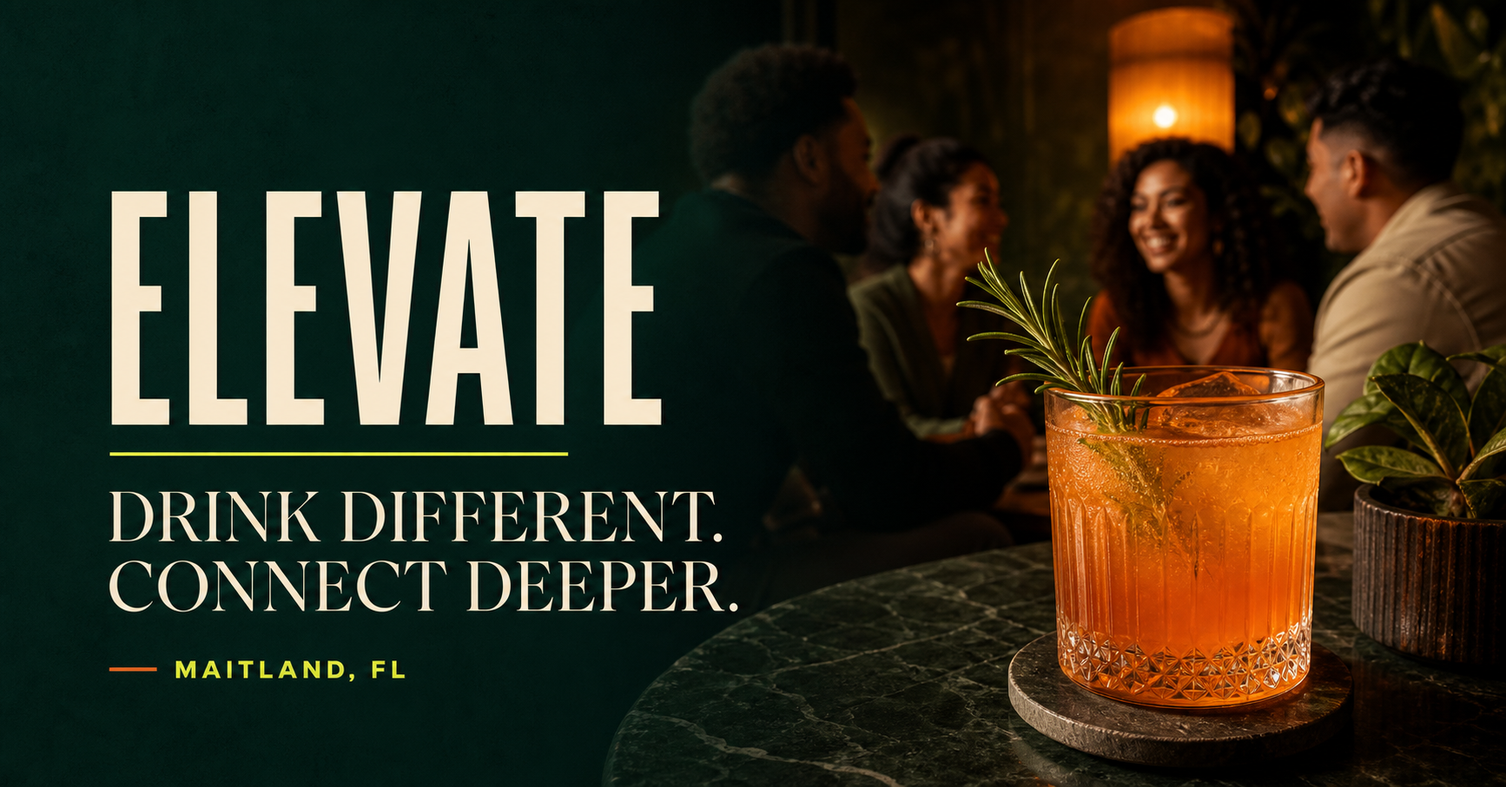
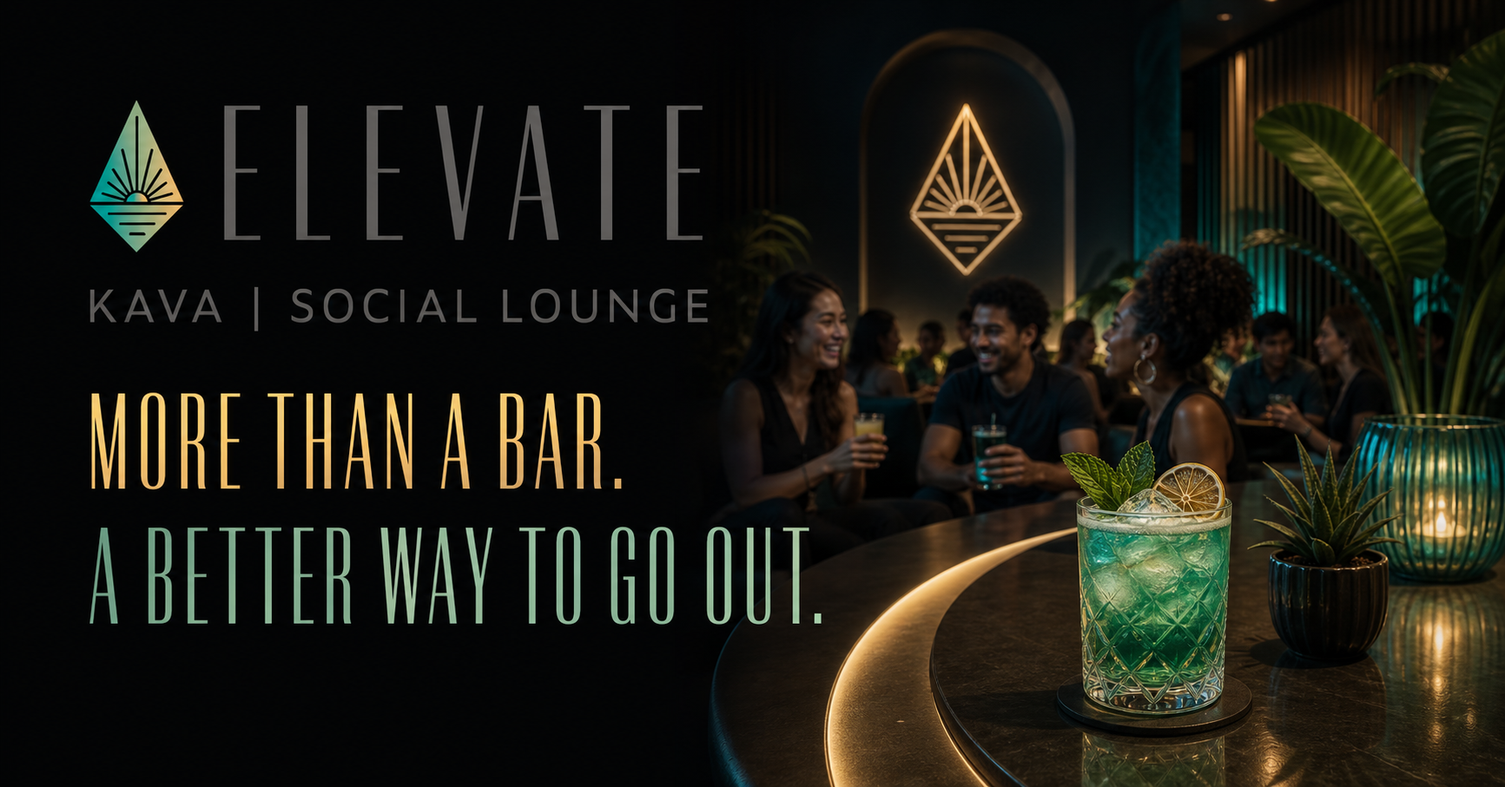
Expand Elevate into a next-generation social bar

diff --git a/app/globals.css b/app/globals.css
@@ -1,107 +1,7 @@
-@import url('https://fonts.googleapis.com/css2?family=DM+Sans:wght@400;500;600&family=DM+Serif+Display:ital@0;1&family=Oswald:wght@500;600&display=swap');
+@import url('https://fonts.googleapis.com/css2?family=DM+Sans:wght@400;500;600&family=Italiana&family=Oswald:wght@400;500&display=swap');
 
-:root { --green:#12372d; --deep:#08261f; --ink:#102a23; --cream:#f3ebdd; --paper:#fbf7ef; --lime:#dff34a; --orange:#ef6b35; --line:rgba(16,42,35,.18); }
-* { box-sizing:border-box; }
-html { scroll-behavior:smooth; }
-body { margin:0; background:var(--paper); color:var(--ink); font-family:'DM Sans',Arial,sans-serif; }
-a { color:inherit; text-decoration:none; }
-img { width:100%; height:100%; object-fit:cover; display:block; }
-.site-header { height:82px; display:grid; grid-template-columns:1fr auto 1fr; align-items:center; padding:0 3vw; background:var(--deep); color:var(--cream); border-bottom:1px solid rgba(243,235,221,.15); position:relative; z-index:5; }
-.wordmark,.footer-mark { font:600 26px/1 'Oswald',sans-serif; letter-spacing:.03em; }
-.wordmark span,.footer-mark span { color:var(--lime); }
-nav { display:flex; gap:34px; font-size:13px; text-transform:uppercase; letter-spacing:.12em; }
-nav a,.footer-links a { transition:color .2s; }
-nav a:hover,.footer-links a:hover { color:var(--lime); }
-.order-link { justify-self:end; font-size:13px; text-transform:uppercase; letter-spacing:.1em; padding-bottom:7px; border-bottom:1px solid var(--lime); }
-.order-link span,.button span,.footer-links span { margin-left:10px; }
-.hero { min-height:calc(100vh - 82px); display:grid; grid-template-columns:55% 45%; grid-template-rows:1fr auto; background:var(--green); color:var(--cream); overflow:hidden; }
-.hero-copy { padding:9vh 5vw 8vh 7vw; display:flex; flex-direction:column; justify-content:center; position:relative; }
-.hero-copy:after { content:''; position:absolute; width:170px; height:170px; border:1px solid rgba(223,243,74,.35); border-radius:50%; right:-55px; top:9%; }
-.eyebrow,.section-number { font-size:11px; text-transform:uppercase; letter-spacing:.2em; font-weight:600; }
-.eyebrow { display:flex; align-items:center; gap:12px; color:var(--lime); }
-.eyebrow span { width:34px; height:1px; background:var(--lime); }
-h1,h2,blockquote { font-family:'DM Serif Display',Georgia,serif; font-weight:400; letter-spacing:-.04em; margin:0; }
-h1 { font-size:clamp(62px,7.3vw,124px); line-height:.83; margin:34px 0; }
-h1 em,h2 em { color:var(--lime); font-weight:400; }
-.hero-intro { max-width:550px; font-size:17px; line-height:1.6; color:rgba(243,235,221,.77); }
-.hero-actions { display:flex; gap:30px; align-items:center; margin-top:38px; }
-.button { display:inline-flex; align-items:center; justify-content:center; padding:17px 22px; text-transform:uppercase; letter-spacing:.13em; font-size:11px; font-weight:600; border:1px solid; transition:transform .2s,background .2s; }
-.button:hover { transform:translateY(-2px); }
-.button-light { background:var(--lime); border-color:var(--lime); color:var(--deep); }
-.button-dark { background:var(--deep); border-color:var(--deep); color:var(--cream); }
-.text-link { font-size:12px; border-bottom:1px solid rgba(243,235,221,.35); padding-bottom:6px; }
-.hero-image { background:linear-gradient(180deg,rgba(8,38,31,.08),rgba(8,38,31,.5)),url('/images/hero.jpg') center/cover; position:relative; min-height:620px; }
-.hero-image>p { position:absolute; bottom:35px; right:35px; text-align:right; text-transform:uppercase; letter-spacing:.14em; font-size:10px; line-height:1.6; }
-.image-stamp { width:120px; height:120px; border-radius:50%; position:absolute; top:35px; left:-60px; background:var(--orange); color:var(--deep); display:flex; flex-direction:column; justify-content:center; align-items:center; transform:rotate(-8deg); }
-.image-stamp strong { font:600 34px/1 'Oswald'; }
-.image-stamp span { font-size:9px; text-align:center; text-transform:uppercase; letter-spacing:.1em; margin-top:5px; }
-.hero-marquee { grid-column:1/-1; background:var(--lime); color:var(--deep); display:flex; align-items:center; justify-content:space-around; gap:26px; padding:16px 2vw; white-space:nowrap; font:600 17px 'Oswald'; letter-spacing:.1em; }
-.hero-marquee i { color:var(--orange); font-style:normal; }
-.manifesto { padding:130px 7vw; display:grid; grid-template-columns:22% 1fr; border-bottom:1px solid var(--line); }
-.section-number { margin:10px 0 28px; color:#527168; }
-.manifesto h2,.section-heading h2,.visit h2 { font-size:clamp(52px,7vw,108px); line-height:.92; }
-.manifesto h2 em,.section-heading h2 em,.visit h2 em { color:var(--orange); }
-.manifesto-copy { display:grid; grid-template-columns:1fr 1fr; gap:6vw; max-width:820px; margin:64px 0 0 auto; font-size:16px; line-height:1.75; color:#47615a; }
-.drinks { padding:120px 7vw 140px; }
-.section-heading { display:flex; align-items:end; justify-content:space-between; margin-bottom:58px; }
-.drink-grid { display:grid; grid-template-columns:repeat(3,1fr); gap:20px; }
-.drink-card { border:1px solid var(--line); background:var(--cream); transition:transform .25s; }
-.drink-card:hover { transform:translateY(-7px); }
-.drink-photo { height:440px; position:relative; overflow:hidden; background:#ddd; }
-.drink-photo img { transition:transform .5s; }
-.drink-card:hover img { transform:scale(1.025); }
-.drink-photo span { position:absolute; top:18px; left:18px; width:39px; height:39px; border-radius:50%; display:grid; place-items:center; background:var(--lime); font-size:11px; font-weight:600; }
-.drink-info { padding:25px 24px 28px; display:grid; grid-template-columns:1fr auto; align-items:end; }
-.drink-info h3 { grid-column:1/-1; font:400 30px 'DM Serif Display'; margin:0 0 6px; }
-.drink-info p { margin:0; font-size:12px; color:#5c716b; }
-.drink-info strong { font-size:12px; }
-.drink-card.mint .drink-photo img { filter:hue-rotate(28deg) saturate(.8); }
-.drink-card.berry .drink-photo img { filter:hue-rotate(315deg) saturate(1.15); }
-.split-story { display:grid; grid-template-columns:1fr 1fr; min-height:760px; background:var(--deep); color:var(--cream); }
-.story-image { min-height:640px; overflow:hidden; }
-.story-image img { filter:saturate(.75) contrast(1.05); }
-.story-copy { padding:9vw 7vw; display:flex; flex-direction:column; justify-content:center; }
-.story-copy .section-number { color:var(--lime); }
-blockquote { font-size:clamp(44px,5vw,78px); line-height:1.03; margin:35px 0 55px; color:var(--cream); }
-.story-points>div { display:grid; grid-template-columns:45px 130px 1fr; padding:18px 0; border-top:1px solid rgba(243,235,221,.18); align-items:start; }
-.story-points span { color:var(--lime); font-size:10px; }
-.story-points h3 { margin:0; font-size:13px; text-transform:uppercase; letter-spacing:.08em; }
-.story-points p { margin:0; font-size:12px; line-height:1.55; color:rgba(243,235,221,.65); }
-.visit { padding:120px 7vw 0; background:var(--cream); }
-.visit-top { display:flex; justify-content:space-between; border-bottom:1px solid var(--line); }
-.status { font-size:10px; letter-spacing:.13em; font-weight:600; }
-.status i { width:7px; height:7px; border-radius:50%; background:#6db547; display:inline-block; margin-right:8px; }
-.visit-main { display:grid; grid-template-columns:1fr 1fr; padding:70px 0; align-items:end; }
-.visit-details { display:grid; grid-template-columns:1fr 1fr; gap:5vw; }
-.visit-details span { text-transform:uppercase; letter-spacing:.14em; font-size:10px; color:#5c716b; }
-.visit-details p { line-height:1.65; font-size:14px; min-height:98px; }
-.visit-details a { font-size:11px; text-transform:uppercase; letter-spacing:.12em; border-bottom:1px solid; padding-bottom:5px; }
-.visit-image { height:440px; overflow:hidden; }
-footer { background:var(--orange); padding:90px 7vw 30px; display:grid; grid-template-columns:1fr 1fr; align-items:start; }
-.footer-mark { font-size:clamp(78px,13vw,210px); line-height:.8; letter-spacing:-.02em; }
-footer>p { justify-self:end; font:400 30px 'DM Serif Display'; max-width:260px; margin:0; }
-.footer-links { grid-column:1/-1; display:flex; justify-content:flex-end; gap:32px; margin:80px 0 55px; font-size:11px; text-transform:uppercase; letter-spacing:.12em; }
-.footer-bottom { grid-column:1/-1; border-top:1px solid rgba(8,38,31,.3); padding-top:18px; display:flex; justify-content:space-between; font-size:10px; text-transform:uppercase; letter-spacing:.12em; }
-@media (max-width:900px) {
-  .site-header { grid-template-columns:1fr auto; } nav { display:none; }
-  .hero { grid-template-columns:1fr; } .hero-copy { padding:80px 7vw; } .hero-image { min-height:520px; } .image-stamp { left:auto; right:25px; }
-  .manifesto { grid-template-columns:1fr; } .manifesto-copy { margin-left:0; }
-  .drink-grid { grid-template-columns:1fr; } .drink-photo { height:520px; }
-  .split-story,.visit-main { grid-template-columns:1fr; } .story-copy { padding:90px 7vw; }
-  .visit-details { margin-top:60px; }
-  footer { grid-template-columns:1fr; } footer>p { justify-self:start; margin-top:40px; } .footer-links,.footer-bottom { grid-column:1; }
-}
-@media (max-width:600px) {
-  .site-header { height:68px; padding:0 20px; } .wordmark { font-size:21px; } .order-link { font-size:10px; }
-  h1 { font-size:54px; } .hero-copy { padding:58px 24px; } .hero-actions { align-items:flex-start; flex-direction:column; }
-  .hero-image { min-height:430px; } .hero-marquee { justify-content:flex-start; overflow:hidden; font-size:14px; }
-  .manifesto,.drinks,.visit { padding:85px 24px; } .manifesto h2,.section-heading h2,.visit h2 { font-size:50px; }
-  .manifesto-copy { grid-template-columns:1fr; gap:10px; margin-top:40px; }
-  .section-heading { display:block; } .section-heading .button { margin-top:30px; }
-  .drink-photo { height:390px; } .story-image { min-height:480px; }
-  .story-copy { padding:80px 24px; } .story-points>div { grid-template-columns:35px 1fr; gap:8px; } .story-points p { grid-column:2; }
-  .visit-top { display:block; padding-bottom:18px; } .visit-main { padding:50px 0; } .visit-details { grid-template-columns:1fr; gap:42px; }
-  .visit-details p { min-height:auto; } .visit-image { height:360px; }
-  footer { padding:70px 24px 28px; } .footer-mark { font-size:78px; } .footer-links { justify-content:flex-start; flex-wrap:wrap; margin:60px 0 45px; }
-}
-@media (prefers-reduced-motion:reduce) { html { scroll-behavior:auto; } * { transition:none!important; } }
+:root{--black:#070909;--graphite:#141716;--ink:#202422;--paper:#f2f0e9;--white:#fbfaf5;--teal:#03afa4;--mint:#9bc8aa;--gold:#efc36a;--line:rgba(7,9,9,.16);--grad:linear-gradient(110deg,#03afa4 0%,#98c5a6 50%,#efc36a 100%)}
+*{box-sizing:border-box}html{scroll-behavior:smooth}body{margin:0;background:var(--paper);color:var(--ink);font-family:'DM Sans',sans-serif}a{color:inherit;text-decoration:none}img{display:block;width:100%;height:100%;object-fit:cover}button{font:inherit}.site-header{height:94px;padding:0 4vw;display:grid;grid-template-columns:1fr auto 1fr;align-items:center;background:var(--black);color:white;position:relative;z-index:9;border-bottom:1px solid #2d302f}.brand{width:190px;height:64px;display:block}.brand img{object-fit:contain;object-position:left center}.site-header nav{display:flex;gap:40px;font-size:11px;letter-spacing:.16em;text-transform:uppercase}.site-header nav a{transition:color .2s}.site-header nav a:hover{color:var(--teal)}.order-link{justify-self:end;font-size:11px;text-transform:uppercase;letter-spacing:.14em;border-bottom:1px solid var(--gold);padding-bottom:7px}.order-link span,.button span,.ritual a span,.footer-links span{margin-left:10px}.hero{background:var(--black);color:var(--white);min-height:calc(100vh - 94px);display:grid;grid-template-columns:51% 49%;grid-template-rows:1fr auto;overflow:hidden}.hero-copy{padding:10vh 5vw 10vh 7vw;display:flex;justify-content:center;flex-direction:column;position:relative}.hero-copy:before{content:'';width:24vw;height:24vw;border-radius:50%;position:absolute;left:-16vw;top:12%;border:1px solid rgba(3,175,164,.28)}.eyebrow,.section-label{font-size:10px;text-transform:uppercase;letter-spacing:.22em;font-weight:600}.eyebrow{display:flex;align-items:center;gap:12px;color:var(--mint)}.eyebrow span{display:block;width:32px;height:1px;background:var(--grad)}h1,h2,blockquote{font-family:'Italiana',serif;font-weight:400;letter-spacing:-.045em;margin:0}h1{font-size:clamp(82px,9vw,150px);line-height:.78;margin:42px 0}h1 em,h2 em,blockquote em{font-style:italic;color:var(--gold)}.hero-intro{max-width:590px;color:#a8aeaa;font-size:17px;line-height:1.75}.hero-actions{display:flex;align-items:center;gap:30px;margin-top:38px}.button{display:inline-flex;align-items:center;justify-content:center;padding:17px 22px;font-size:10px;font-weight:600;text-transform:uppercase;letter-spacing:.15em;border:1px solid;transition:transform .2s}.button:hover{transform:translateY(-2px)}.gradient-button{background:var(--grad);color:var(--black);border:0}.dark-button{background:var(--black);color:white;border-color:var(--black)}.text-link{font-size:11px;border-bottom:1px solid #4f5351;padding-bottom:6px}.hero-visual{position:relative;min-height:670px;border-left:1px solid #292c2b;background:#101312}.hero-photo{position:absolute;inset:4.5vw 0 4.5vw 5vw;background:linear-gradient(180deg,transparent 42%,rgba(7,9,9,.7)),url('/images/hero.jpg') center/cover}.hero-photo:before{content:'';position:absolute;inset:0;background:linear-gradient(120deg,rgba(3,175,164,.08),transparent 35%,rgba(239,195,106,.12));mix-blend-mode:color}.hero-orbit{position:absolute;right:2vw;top:32px;display:flex;gap:8px;font-size:8px;letter-spacing:.16em;writing-mode:vertical-rl}.hero-orbit i{font-style:normal;color:var(--gold)}.now-card{position:absolute;left:0;bottom:8vw;width:190px;min-height:190px;padding:22px;background:rgba(7,9,9,.94);border-left:3px solid var(--teal);display:flex;flex-direction:column}.now-card span,.now-card small{font-size:8px;letter-spacing:.17em;color:#919895}.now-card strong{font:400 29px/1.05 'Italiana';margin:auto 0}.ticker{grid-column:1/-1;background:var(--grad);color:var(--black);height:54px;display:flex;align-items:center;justify-content:space-around;gap:24px;white-space:nowrap;font:500 15px 'Oswald';letter-spacing:.11em}.ticker i{font-style:normal}.positioning{padding:145px 7vw;display:grid;grid-template-columns:35% 65%;border-bottom:1px solid var(--line)}.position-mark{width:260px;height:260px;border-radius:50%;background:var(--black);padding:50px;display:flex;align-items:center}.position-mark img{object-fit:contain;transform:scale(1.5)}.position-copy h2,.menu-heading h2,.editorial-copy h2,.visit h2{font-size:clamp(58px,7.4vw,120px);line-height:.88}.position-copy h2 em,.menu-heading h2 em,.editorial-copy h2 em,.visit h2 em{color:var(--teal)}.position-copy>p:last-child{max-width:680px;margin:55px 0 0 auto;color:#606763;font-size:17px;line-height:1.8}.section-label{color:#6d7470;margin:0 0 32px}.rituals{padding:115px 7vw 135px;background:var(--white)}.ritual-head{display:flex;justify-content:space-between;align-items:start;margin-bottom:55px}.ritual-head>p:last-child{font:400 28px/1.25 'Italiana';margin:0}.ritual-grid{display:grid;grid-template-columns:repeat(3,1fr);gap:18px}.ritual{min-height:500px;padding:28px;display:flex;flex-direction:column;position:relative;overflow:hidden;transition:transform .25s}.ritual:hover{transform:translateY(-6px)}.ritual:after{content:'';position:absolute;width:290px;height:290px;border:1px solid currentColor;border-radius:50%;right:-130px;bottom:-130px;opacity:.24}.ritual.teal{background:#08a99e;color:#031816}.ritual.gold{background:var(--gold);color:#221b0d}.ritual.mint{background:#9ecaae;color:#0c2016}.ritual>span{font-size:10px;border-bottom:1px solid currentColor;padding-bottom:17px}.ritual>p{font-size:9px;letter-spacing:.16em;text-transform:uppercase;margin:25px 0 0}.ritual h3{font:400 clamp(66px,6vw,100px)/1 'Italiana';margin:auto 0 25px}.ritual-rule{width:100%;height:1px;background:currentColor;opacity:.35}.ritual small{font-size:12px;line-height:1.6;max-width:260px;margin:20px 0}.ritual a{font-size:9px;text-transform:uppercase;letter-spacing:.16em;margin-top:10px;font-weight:600}.feature-band{display:grid;grid-template-columns:47% 53%;min-height:770px;background:var(--black);color:var(--white)}.feature-photo{min-height:650px;position:relative}.feature-photo:after{content:'';position:absolute;inset:0;background:linear-gradient(90deg,transparent 50%,rgba(7,9,9,.35))}.feature-photo img{filter:saturate(.7) contrast(1.08)}.feature-copy{padding:9vw 7vw;display:flex;flex-direction:column;justify-content:center}.feature-copy .section-label{color:var(--teal)}blockquote{font-size:clamp(52px,5.7vw,94px);line-height:.98;margin:25px 0 70px}.feature-stats{display:grid;grid-template-columns:repeat(3,1fr);border-top:1px solid #383b39;padding-top:24px;gap:24px}.feature-stats strong{font:400 32px 'Italiana';display:block;color:var(--gold)}.feature-stats span{font-size:9px;line-height:1.4;color:#949a96;text-transform:uppercase;letter-spacing:.1em}.menu-section{padding:135px 7vw;background:var(--paper)}.menu-heading{display:grid;grid-template-columns:1fr 36%;align-items:end;gap:6vw;margin-bottom:70px}.menu-heading>div:last-child>p{font-size:15px;line-height:1.7;color:#626965}.menu-heading .button{margin-top:24px}.menu-explorer{border-top:1px solid var(--black);display:grid;grid-template-columns:26% 1fr}.menu-tabs{border-right:1px solid var(--line)}.menu-tabs button{width:100%;text-align:left;border:0;border-bottom:1px solid var(--line);background:transparent;padding:25px 22px;font:400 25px 'Italiana';cursor:pointer;color:#7f8582;transition:.2s}.menu-tabs button span{font:500 9px 'DM Sans';margin-right:18px}.menu-tabs button[aria-selected="true"]{background:var(--black);color:var(--white);padding-left:30px}.menu-panel{padding:0 0 0 5vw}.menu-panel-head{height:76px;display:flex;align-items:center;justify-content:space-between;border-bottom:1px solid var(--line);font-size:9px;text-transform:uppercase;letter-spacing:.15em;color:#6b726e}.menu-list{display:grid;grid-template-columns:1fr 1fr;column-gap:4vw}.menu-list article{min-height:125px;padding:24px 0;border-bottom:1px solid var(--line);display:grid;grid-template-columns:1fr auto;gap:20px}.menu-list h3{font:400 26px 'Italiana';margin:0 0 7px}.menu-list p{font-size:11px;line-height:1.5;color:#737a76;margin:0}.menu-list strong{font-size:11px}.menu-note{margin-top:75px;border:1px solid var(--line);padding:25px 30px;display:grid;grid-template-columns:20% 1fr;align-items:center}.menu-note span{font-size:9px;letter-spacing:.16em}.menu-note p{font:400 20px/1.5 'Italiana';margin:0}.editorial-grid{display:grid;grid-template-columns:44% 28% 28%;grid-template-rows:400px 340px;background:var(--black);color:white}.editorial-copy{grid-row:1/3;padding:8vw 6vw;display:flex;flex-direction:column;justify-content:center}.editorial-copy h2{font-size:clamp(62px,6.3vw,100px)}.editorial-copy>p:last-child{color:#929894;line-height:1.75;max-width:470px;margin-top:48px}.editorial-image.tall{grid-row:1/3}.editorial-image.wide{grid-column:3;grid-row:1/3;position:relative}.editorial-image img{filter:saturate(.65) contrast(1.1)}.editorial-image.wide span{position:absolute;bottom:24px;left:24px;font-size:8px;line-height:1.7;letter-spacing:.15em}.visit{padding:125px 7vw 115px;background:var(--mint)}.visit-head{display:flex;justify-content:space-between;border-bottom:1px solid rgba(7,9,9,.28);padding-bottom:10px}.status{font-size:9px;letter-spacing:.14em;font-weight:600}.status i{display:inline-block;width:7px;height:7px;border-radius:50%;background:#0b7b50;margin-right:7px}.visit-main{display:grid;grid-template-columns:55% 45%;padding-top:70px;align-items:end}.visit-main .button{margin-top:40px}.visit-details{display:grid;grid-template-columns:1fr 1fr;gap:45px}.visit-details>div:last-child{grid-column:1/-1;border-top:1px solid rgba(7,9,9,.22);padding-top:25px}.visit-details span{font-size:8px;letter-spacing:.16em}.visit-details p{font-size:13px;line-height:1.7}.visit-details a{border-bottom:1px solid rgba(7,9,9,.35)}footer{background:var(--black);color:white;padding:100px 7vw 30px;display:grid;grid-template-columns:1fr 1fr}.footer-logo{width:min(620px,100%);height:auto;object-fit:contain;object-position:left center}footer>p{justify-self:end;font:400 32px 'Italiana';margin:0;color:var(--gold)}.footer-links{grid-column:1/-1;display:flex;justify-content:flex-end;gap:34px;margin:100px 0 55px;font-size:9px;text-transform:uppercase;letter-spacing:.15em}.footer-bottom{grid-column:1/-1;display:flex;justify-content:space-between;border-top:1px solid #303332;padding-top:18px;font-size:8px;letter-spacing:.15em;color:#8e9490}
+@media(max-width:950px){.site-header{grid-template-columns:1fr auto}.site-header nav{display:none}.hero{grid-template-columns:1fr}.hero-copy{padding:100px 7vw}.hero-visual{min-height:650px}.positioning{grid-template-columns:1fr;gap:70px}.position-mark{width:220px;height:220px}.ritual-grid{grid-template-columns:1fr}.ritual{min-height:420px}.feature-band{grid-template-columns:1fr}.feature-copy{padding:100px 7vw}.menu-heading{grid-template-columns:1fr}.menu-explorer{grid-template-columns:1fr}.menu-tabs{display:grid;grid-template-columns:1fr 1fr;border-right:0}.menu-panel{padding-left:0}.editorial-grid{grid-template-columns:1fr 1fr;grid-template-rows:auto 580px}.editorial-copy{grid-column:1/-1;grid-row:auto;padding:100px 7vw}.editorial-image.tall,.editorial-image.wide{grid-row:2;grid-column:auto}.visit-main{grid-template-columns:1fr;gap:70px}footer{grid-template-columns:1fr}footer>p{justify-self:start;margin-top:35px}.footer-links,.footer-bottom{grid-column:1}}
+@media(max-width:600px){.site-header{height:74px;padding:0 20px}.brand{width:135px;height:52px}.order-link{font-size:9px}.hero{min-height:auto}.hero-copy{padding:75px 24px}.hero-copy h1{font-size:74px}.hero-actions{align-items:flex-start;flex-direction:column}.hero-visual{min-height:510px}.hero-photo{inset:30px 0 45px 32px}.now-card{width:150px;min-height:150px;bottom:62px}.now-card strong{font-size:23px}.ticker{justify-content:flex-start;overflow:hidden}.positioning,.rituals,.menu-section,.visit{padding:90px 24px}.position-mark{width:160px;height:160px;padding:38px}.position-copy h2,.menu-heading h2,.editorial-copy h2,.visit h2{font-size:54px}.position-copy>p:last-child{margin-top:40px}.ritual-head{display:block}.ritual-head>p:last-child{font-size:23px;margin-top:25px}.ritual{min-height:390px}.feature-photo{min-height:500px}.feature-copy{padding:80px 24px}.feature-stats{grid-template-columns:1fr}.menu-tabs{grid-template-columns:1fr}.menu-tabs button{font-size:21px;padding:18px}.menu-list{grid-template-columns:1fr}.menu-panel-head{height:auto;padding:18px 0}.menu-note{grid-template-columns:1fr;gap:15px;padding:22px}.editorial-grid{display:block}.editorial-copy{padding:80px 24px}.editorial-image{height:480px}.editorial-image.wide{height:360px}.visit-details{grid-template-columns:1fr}.visit-details>div:last-child{grid-column:1}.footer-logo{width:100%}footer{padding:75px 24px 25px}footer>p{font-size:25px}.footer-links{justify-content:flex-start;flex-wrap:wrap;margin:65px 0 45px}.footer-bottom{display:block;line-height:2}}
+@media(prefers-reduced-motion:reduce){html{scroll-behavior:auto}*{transition:none!important}}

diff --git a/app/page.tsx b/app/page.tsx
@@ -1,123 +1,72 @@
-const drinks = [
-  { name: "Mango Sunrise", note: "mango · grenadine · mitra tea", price: "$8 / 10", image: "/images/hero.jpg", tone: "sun" },
-  { name: "Clear Skies", note: "cucumber · lime · mint", price: "$11", image: "/images/drink-one.jpg", tone: "mint" },
-  { name: "Berry Energetic", note: "mixed berry · oatmilk · green tea", price: "$12", image: "/images/drink-two.jpg", tone: "berry" },
+import { MenuExplorer } from "./MenuExplorer";
+
+const rituals = [
+  { n: "01", title: "Lift", tag: "energy + focus", copy: "Mitra teas, matcha, espresso, and blends built for the long day ahead.", color: "teal" },
+  { n: "02", title: "Connect", tag: "social + present", copy: "Layered botanical drinks that turn a quick hello into a whole evening.", color: "gold" },
+  { n: "03", title: "Unwind", tag: "calm + grounded", copy: "Traditional kava and slow sips for landing softly without checking out.", color: "mint" },
 ];
 
-function Arrow() {
-  return <span aria-hidden="true">↗</span>;
-}
+function Arrow() { return <span aria-hidden="true">↗</span>; }
 
 export default function Home() {
   return (
     <main>
       <header className="site-header">
-        <a className="wordmark" href="#top" aria-label="Elevate home">
-          ELEVATE<span>•</span>
-        </a>
-        <nav aria-label="Main navigation">
-          <a href="#drinks">Drinks</a>
-          <a href="#about">Our place</a>
-          <a href="#visit">Visit</a>
-        </nav>
-        <a className="order-link" href="https://www.toasttab.com/elevate-1-400-n-orlando-avenue" target="_blank" rel="noreferrer">
-          Order ahead <Arrow />
-        </a>
+        <a className="brand" href="#top" aria-label="Elevate home"><img src="/elevate-logo.png" alt="Elevate Kava Social Lounge" /></a>
+        <nav aria-label="Main navigation"><a href="#experience">Experience</a><a href="#menu">Menu</a><a href="#visit">Visit</a></nav>
+        <a className="order-link" href="https://www.toasttab.com/elevate-1-400-n-orlando-avenue" target="_blank" rel="noreferrer">Order ahead <Arrow /></a>
       </header>
 
       <section className="hero" id="top">
         <div className="hero-copy">
-          <p className="eyebrow"><span /> Your new favorite third place</p>
-          <h1>Drink different.<br /><em>Connect deeper.</em></h1>
-          <p className="hero-intro">Botanical drinks, unhurried energy, and room to be yourself. Welcome to Maitland’s modern kava social lounge.</p>
-          <div className="hero-actions">
-            <a className="button button-light" href="#drinks">Explore the menu <Arrow /></a>
-            <a className="text-link" href="#visit">Open daily, 9am–midnight <span aria-hidden="true">↓</span></a>
-          </div>
+          <p className="eyebrow"><span /> The next-generation social bar</p>
+          <h1>More than<br />a <em>bar.</em></h1>
+          <p className="hero-intro">A new way to go out—built around bold botanical drinks, better energy, and actual connection. From first focus to last call, choose your state.</p>
+          <div className="hero-actions"><a className="button gradient-button" href="#menu">Find your drink <Arrow /></a><a className="text-link" href="#experience">Meet the new social ritual <span>↓</span></a></div>
         </div>
-        <div className="hero-image" role="img" aria-label="A bright botanical drink at Elevate Social Lounge">
-          <div className="image-stamp"><strong>0%</strong><span>alcohol<br />100% social</span></div>
-          <p>Crafted in<br />Maitland, FL</p>
+        <div className="hero-visual">
+          <div className="hero-photo" />
+          <div className="hero-orbit"><span>FOCUS</span><i>+</i><span>ENERGY</span><i>+</i><span>CONNECTION</span></div>
+          <div className="now-card"><span>NOW POURING</span><strong>Elevated<br />botanicals</strong><small>9 AM — Midnight</small></div>
         </div>
-        <div className="hero-marquee" aria-hidden="true">
-          <span>KAVA</span><i>✦</i><span>MITRA TEA</span><i>✦</i><span>GOOD COMPANY</span><i>✦</i><span>ZERO PROOF</span>
+        <div className="ticker" aria-hidden="true"><span>KAVA</span><i>◇</i><span>MITRA</span><i>◇</i><span>ZERO-PROOF</span><i>◇</i><span>COFFEE</span><i>◇</i><span>FUNCTIONAL BLENDS</span><i>◇</i><span>GOOD COMPANY</span></div>
+      </section>
+
+      <section className="positioning" id="experience">
+        <div className="position-mark"><img src="/elevate-logo.png" alt="" /></div>
+        <div className="position-copy"><p className="section-label">BEYOND KAVA</p><h2>Your day has<br />different <em>modes.</em><br />So do we.</h2><p>Morning workspace. Afternoon reset. Zero-proof night out. Elevate is the all-day social club where the menu meets you exactly where you are—and moves with you.</p></div>
+      </section>
+
+      <section className="rituals">
+        <div className="ritual-head"><p className="section-label">CHOOSE YOUR STATE</p><p>No alcohol. No one-note experience.<br />Just the right ritual for right now.</p></div>
+        <div className="ritual-grid">
+          {rituals.map((ritual) => <article className={`ritual ${ritual.color}`} key={ritual.title}><span>{ritual.n}</span><p>{ritual.tag}</p><h3>{ritual.title}</h3><div className="ritual-rule" /><small>{ritual.copy}</small><a href="#menu">Find a pour <Arrow /></a></article>)}
         </div>
       </section>
 
-      <section className="manifesto" id="about">
-        <p className="section-number">01 — OUR PLACE</p>
-        <div>
-          <h2>Come as you are.<br /><em>Stay awhile.</em></h2>
-          <div className="manifesto-copy">
-            <p>We made Elevate for the in-between moments: the catch-up that turns into a whole evening, the laptop session that needs a better backdrop, the night out without the next-day fog.</p>
-            <p>Our lounge brings together functional botanicals, genuinely good drinks, and a community that makes everyone feel like a regular.</p>
-          </div>
-        </div>
+      <section className="feature-band">
+        <div className="feature-photo"><img src="/images/lounge.jpg" alt="An inviting moment at Elevate Social Lounge" /></div>
+        <div className="feature-copy"><p className="section-label">THE THIRD PLACE, UPGRADED</p><blockquote>Come for a drink.<br /><em>Leave more alive.</em></blockquote><div className="feature-stats"><div><strong>9—12</strong><span>Open morning to midnight</span></div><div><strong>0%</strong><span>Alcohol required</span></div><div><strong>∞</strong><span>Ways to make it yours</span></div></div></div>
       </section>
 
-      <section className="drinks" id="drinks">
-        <div className="section-heading">
-          <div>
-            <p className="section-number">02 — WHAT WE’RE POURING</p>
-            <h2>Bright, botanical,<br /><em>made to linger.</em></h2>
-          </div>
-          <a className="button button-dark" href="https://www.elevatesociallounge.com/menu-4" target="_blank" rel="noreferrer">View full menu <Arrow /></a>
-        </div>
-        <div className="drink-grid">
-          {drinks.map((drink, index) => (
-            <article className={`drink-card ${drink.tone}`} key={drink.name}>
-              <div className="drink-photo">
-                <img src={drink.image} alt={`${drink.name} botanical beverage`} />
-                <span>0{index + 1}</span>
-              </div>
-              <div className="drink-info">
-                <h3>{drink.name}</h3>
-                <p>{drink.note}</p>
-                <strong>{drink.price}</strong>
-              </div>
-            </article>
-          ))}
-        </div>
+      <section className="menu-section" id="menu">
+        <div className="menu-heading"><div><p className="section-label">THE FULL POUR</p><h2>Not a menu.<br /><em>A mood board.</em></h2></div><div><p>Choose a feeling, a flavor, or a familiar favorite. Our tenders will take it from there.</p><a className="button dark-button" href="https://www.toasttab.com/elevate-1-400-n-orlando-avenue" target="_blank" rel="noreferrer">Order for pickup <Arrow /></a></div></div>
+        <MenuExplorer />
+        <div className="menu-note"><span>MAKE IT YOURS</span><p>Raspberry · lavender · dragonfruit · passionfruit · mango · vanilla · toasted marshmallow · oatmilk · almondmilk · coconut</p></div>
       </section>
 
-      <section className="split-story">
-        <div className="story-image"><img src="/images/lounge.jpg" alt="Friends spending time together at Elevate" /></div>
-        <div className="story-copy">
-          <p className="section-number">03 — THE ELEVATE EFFECT</p>
-          <blockquote>“A night out that actually feels good tomorrow.”</blockquote>
-          <div className="story-points">
-            <div><span>01</span><h3>Focus mode</h3><p>Wi-Fi, outlets, daylight, and a drink with a little lift.</p></div>
-            <div><span>02</span><h3>Social mode</h3><p>Settle in for games, conversation, and zero-proof nights.</p></div>
-            <div><span>03</span><h3>Wind-down mode</h3><p>High-quality kava, soft light, and no rush to leave.</p></div>
-          </div>
-        </div>
+      <section className="editorial-grid">
+        <div className="editorial-copy"><p className="section-label">MADE FOR REAL LIFE</p><h2>Clock in.<br />Catch up.<br /><em>Stay late.</em></h2><p>Fast Wi-Fi and outlets when you’re building. Music and games when you’re reconnecting. Deep seats and thoughtful drinks when you just need somewhere better to be.</p></div>
+        <div className="editorial-image tall"><img src="/images/community.jpg" alt="Community at Elevate Social Lounge" /></div>
+        <div className="editorial-image wide"><img src="/images/hero.jpg" alt="A crafted botanical beverage" /><span>CRAFTED WITH INTENTION<br />POURED FOR CONNECTION</span></div>
       </section>
 
       <section className="visit" id="visit">
-        <div className="visit-top">
-          <p className="section-number">04 — PULL UP A CHAIR</p>
-          <span className="status"><i /> OPEN TODAY UNTIL MIDNIGHT</span>
-        </div>
-        <div className="visit-main">
-          <h2>Meet us<br /><em>in Maitland.</em></h2>
-          <div className="visit-details">
-            <div><span>Find us</span><p>400 N Orlando Ave<br />Unit 109A<br />Maitland, FL 32751</p><a href="https://maps.google.com/?q=400+N+Orlando+Ave+Unit+109A+Maitland+FL+32751" target="_blank" rel="noreferrer">Get directions <Arrow /></a></div>
-            <div><span>Hours</span><p>Monday — Sunday<br />9 AM — 12 AM</p><a href="tel:+14077067127">407 706 7127</a></div>
-          </div>
-        </div>
-        <div className="visit-image"><img src="/images/community.jpg" alt="The welcoming interior of Elevate Social Lounge" /></div>
+        <div className="visit-head"><p className="section-label">COME FIND YOUR MODE</p><span className="status"><i /> OPEN DAILY</span></div>
+        <div className="visit-main"><div><h2>Maitland’s<br /><em>social reset.</em></h2><a className="button gradient-button" href="https://maps.google.com/?q=400+N+Orlando+Ave+Unit+109A+Maitland+FL+32751" target="_blank" rel="noreferrer">Get directions <Arrow /></a></div><div className="visit-details"><div><span>ADDRESS</span><p>400 N Orlando Ave<br />Unit 109A<br />Maitland, FL 32751</p></div><div><span>HOURS</span><p>Monday — Sunday<br />9 AM — 12 AM</p></div><div><span>CONNECT</span><p><a href="tel:+14077067127">407 706 7127</a><br /><a href="mailto:Caleb@drink-elevate.com">Caleb@drink-elevate.com</a></p></div></div></div>
       </section>
 
-      <footer>
-        <div className="footer-mark">ELEVATE<span>•</span></div>
-        <p>Botanicals for better connection.</p>
-        <div className="footer-links">
-          <a href="https://www.instagram.com/elevatesociallounge/" target="_blank" rel="noreferrer">Instagram <Arrow /></a>
-          <a href="https://www.tiktok.com/@elevatesociallounge" target="_blank" rel="noreferrer">TikTok <Arrow /></a>
-          <a href="mailto:Caleb@drink-elevate.com">Email <Arrow /></a>
-        </div>
-        <div className="footer-bottom"><span>© 2026 Elevate Social Lounge</span><span>Maitland, Florida</span></div>
-      </footer>
+      <footer><img className="footer-logo" src="/elevate-logo.png" alt="Elevate Kava Social Lounge" /><p>A better way to go out.</p><div className="footer-links"><a href="https://www.instagram.com/elevatesociallounge/" target="_blank" rel="noreferrer">Instagram <Arrow /></a><a href="https://www.tiktok.com/@elevatesociallounge" target="_blank" rel="noreferrer">TikTok <Arrow /></a><a href="#menu">Menu ↑</a></div><div className="footer-bottom"><span>© 2026 Elevate Social Lounge</span><span>MAITLAND, FLORIDA</span></div></footer>
     </main>
   );
 }

diff --git a/app/MenuExplorer.tsx b/app/MenuExplorer.tsx
@@ -1,0 +1,73 @@
+"use client";
+
+import { useState } from "react";
+
+const sections = [
+  {
+    id: "signatures", label: "Elevated", kicker: "Kava or mitra extract · $11",
+    items: [
+      ["Mitra Mule", "A botanical take on the classic", "$11"],
+      ["Wild Berry Lemonade", "Wild berry, tart lemon, mitra extract", "$11"],
+      ["Pink Sunset", "Strawberry and grapefruit", "$11"],
+      ["Clear Skies", "Cucumber, lime, and mint", "$11"],
+      ["Passion", "Passionfruit and berries", "$11"],
+      ["Tulum", "Pineapple, habanero, and lime", "$11"],
+    ],
+  },
+  {
+    id: "blended", label: "Blended", kicker: "Kava or mitra extract · $12",
+    items: [
+      ["Life + Longevity", "Passionfruit with vitamins A, C, and E", "$12"],
+      ["Berry Energetic", "Mixed berry, oatmilk, green tea, B vitamins", "$12"],
+      ["Just Peachy", "Peach, vitamin C, echinacea, and zinc", "$12"],
+      ["Use Your Noggin", "Piña colada-inspired cognitive blend", "$12"],
+    ],
+  },
+  {
+    id: "specialty", label: "Specialty", kicker: "House originals · $8–12",
+    items: [
+      ["Mango Sunrise", "Mango, grenadine, and mitra tea", "$8 / 10"],
+      ["Sweet Dreams", "Lavender lemonade with mitra tea", "$8 / 10"],
+      ["Twisted", "Kava, mitra tea, dragonfruit, lemonade", "$8 / 10"],
+      ["Joy", "Coconut-inspired with your choice of kava", "$10 / 12"],
+      ["Toasted", "A s’mores-inspired kava drink", "$10 / 12"],
+      ["Chai Kava", "Kava, chai, and creamer", "$10 / 12"],
+    ],
+  },
+  {
+    id: "classics", label: "Classics", kicker: "The building blocks",
+    items: [
+      ["Traditional Kava", "Mind, Body, or 50/50", "$4 / 8 / 10"],
+      ["Mitra Tea", "House brew: Red, Green, or White", "$6 / 8"],
+      ["Mitra9 on Tap", "Ask your tender for today’s flavors", "$10 / 14"],
+      ["Matcha Latte", "Smooth, earthy, and focused", "$6"],
+      ["Espresso", "Single or double", "$2 / 4"],
+      ["Latte", "Classic, oat, almond, or coconut", "$5"],
+    ],
+  },
+];
+
+export function MenuExplorer() {
+  const [active, setActive] = useState("signatures");
+  const section = sections.find((item) => item.id === active) ?? sections[0];
+
+  return (
+    <div className="menu-explorer">
+      <div className="menu-tabs" role="tablist" aria-label="Drink menu categories">
+        {sections.map((item, index) => (
+          <button key={item.id} type="button" role="tab" aria-selected={active === item.id} onClick={() => setActive(item.id)}>
+            <span>0{index + 1}</span>{item.label}
+          </button>
+        ))}
+      </div>
+      <div className="menu-panel" role="tabpanel">
+        <div className="menu-panel-head"><p>{section.kicker}</p><span>Available all day</span></div>
+        <div className="menu-list">
+          {section.items.map(([name, note, price]) => (
+            <article key={name}><div><h3>{name}</h3><p>{note}</p></div><strong>{price}</strong></article>
+          ))}
+        </div>
+      </div>
+    </div>
+  );
+}

diff --git a/app/layout.tsx b/app/layout.tsx
@@ -1,15 +1,15 @@
 import type { Metadata } from "next";
 import "./globals.css";
 
-const description = "A modern kava and botanical tea lounge in Maitland, Florida. Come for the drinks. Stay for the connection.";
+const description = "Maitland’s next-generation botanical social bar—bold zero-proof drinks, better energy, and real connection from morning to midnight.";
 
 export const metadata: Metadata = {
   metadataBase: new URL("https://www.elevatesociallounge.com"),
-  title: "Elevate Social Lounge | Drink Different",
+  title: "Elevate Social Lounge | More Than a Bar",
   description,
   openGraph: {
     title: "Elevate Social Lounge",
-    description: "Drink different. Connect deeper.",
+    description: "A better way to go out.",
     images: [{ url: "/og.png", width: 1734, height: 907, alt: "Elevate Social Lounge in Maitland, Florida" }],
   },
   twitter: { card: "summary_large_image", title: "Elevate Social Lounge", description, images: ["/og.png"] },
